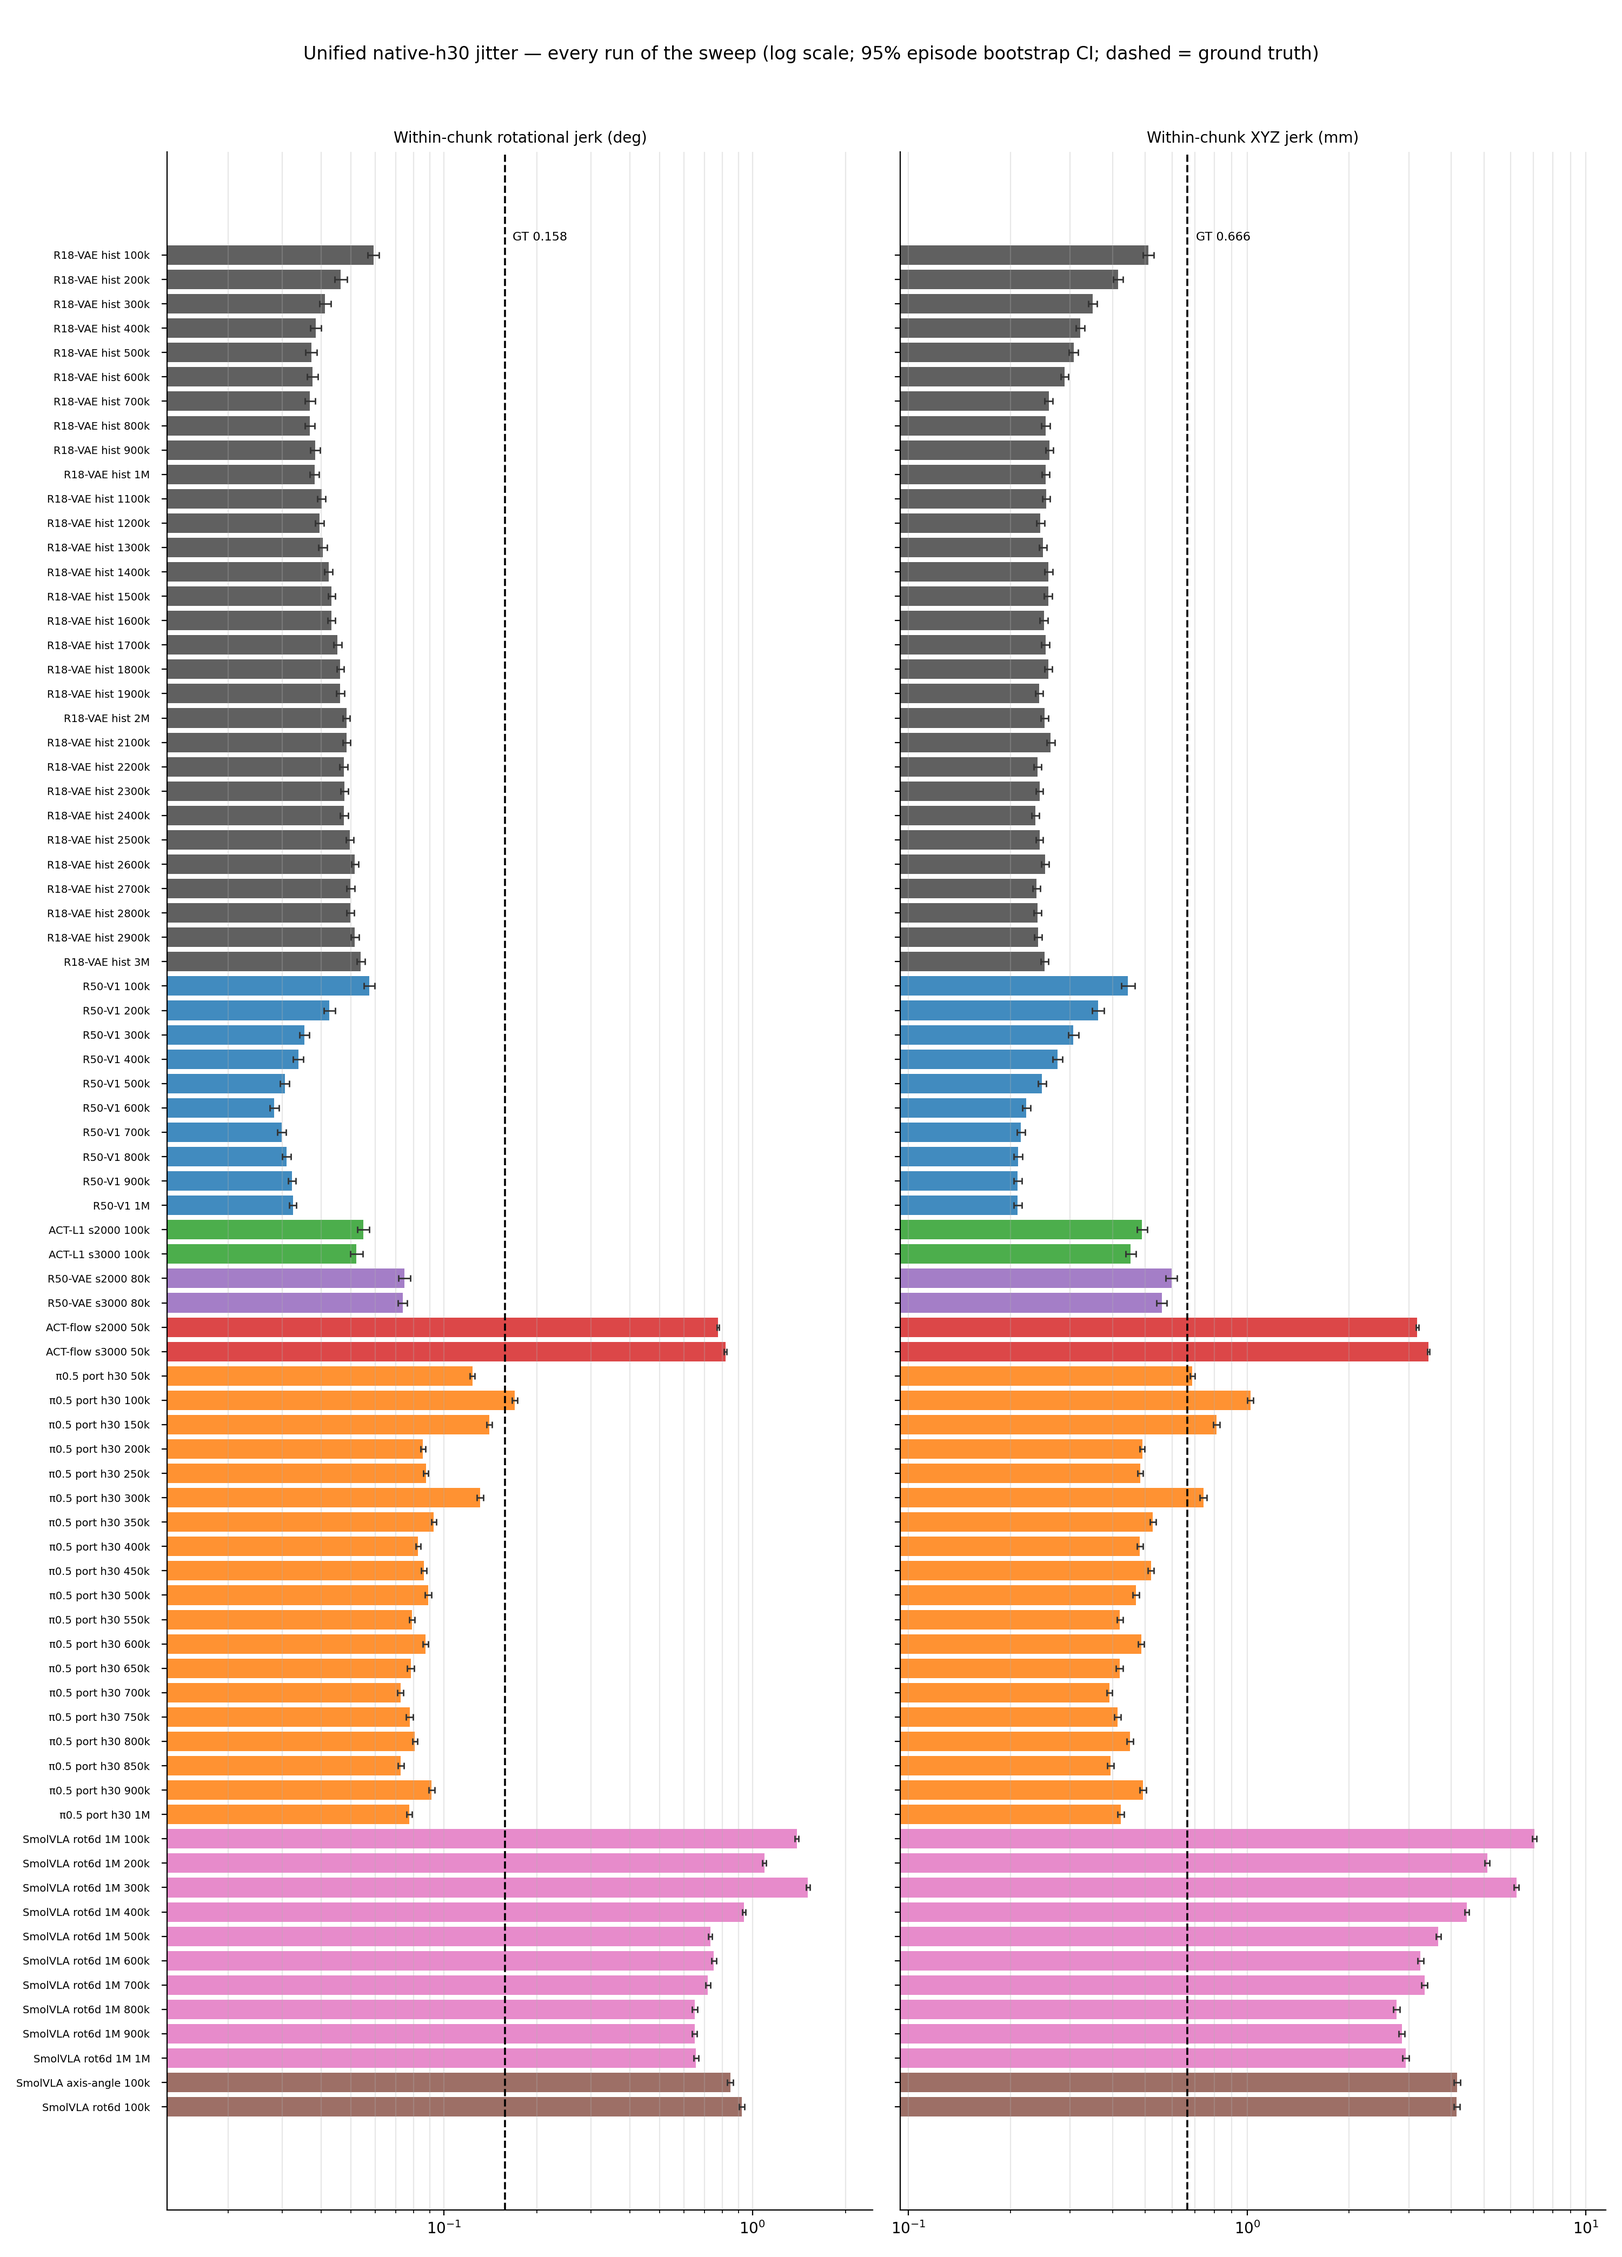
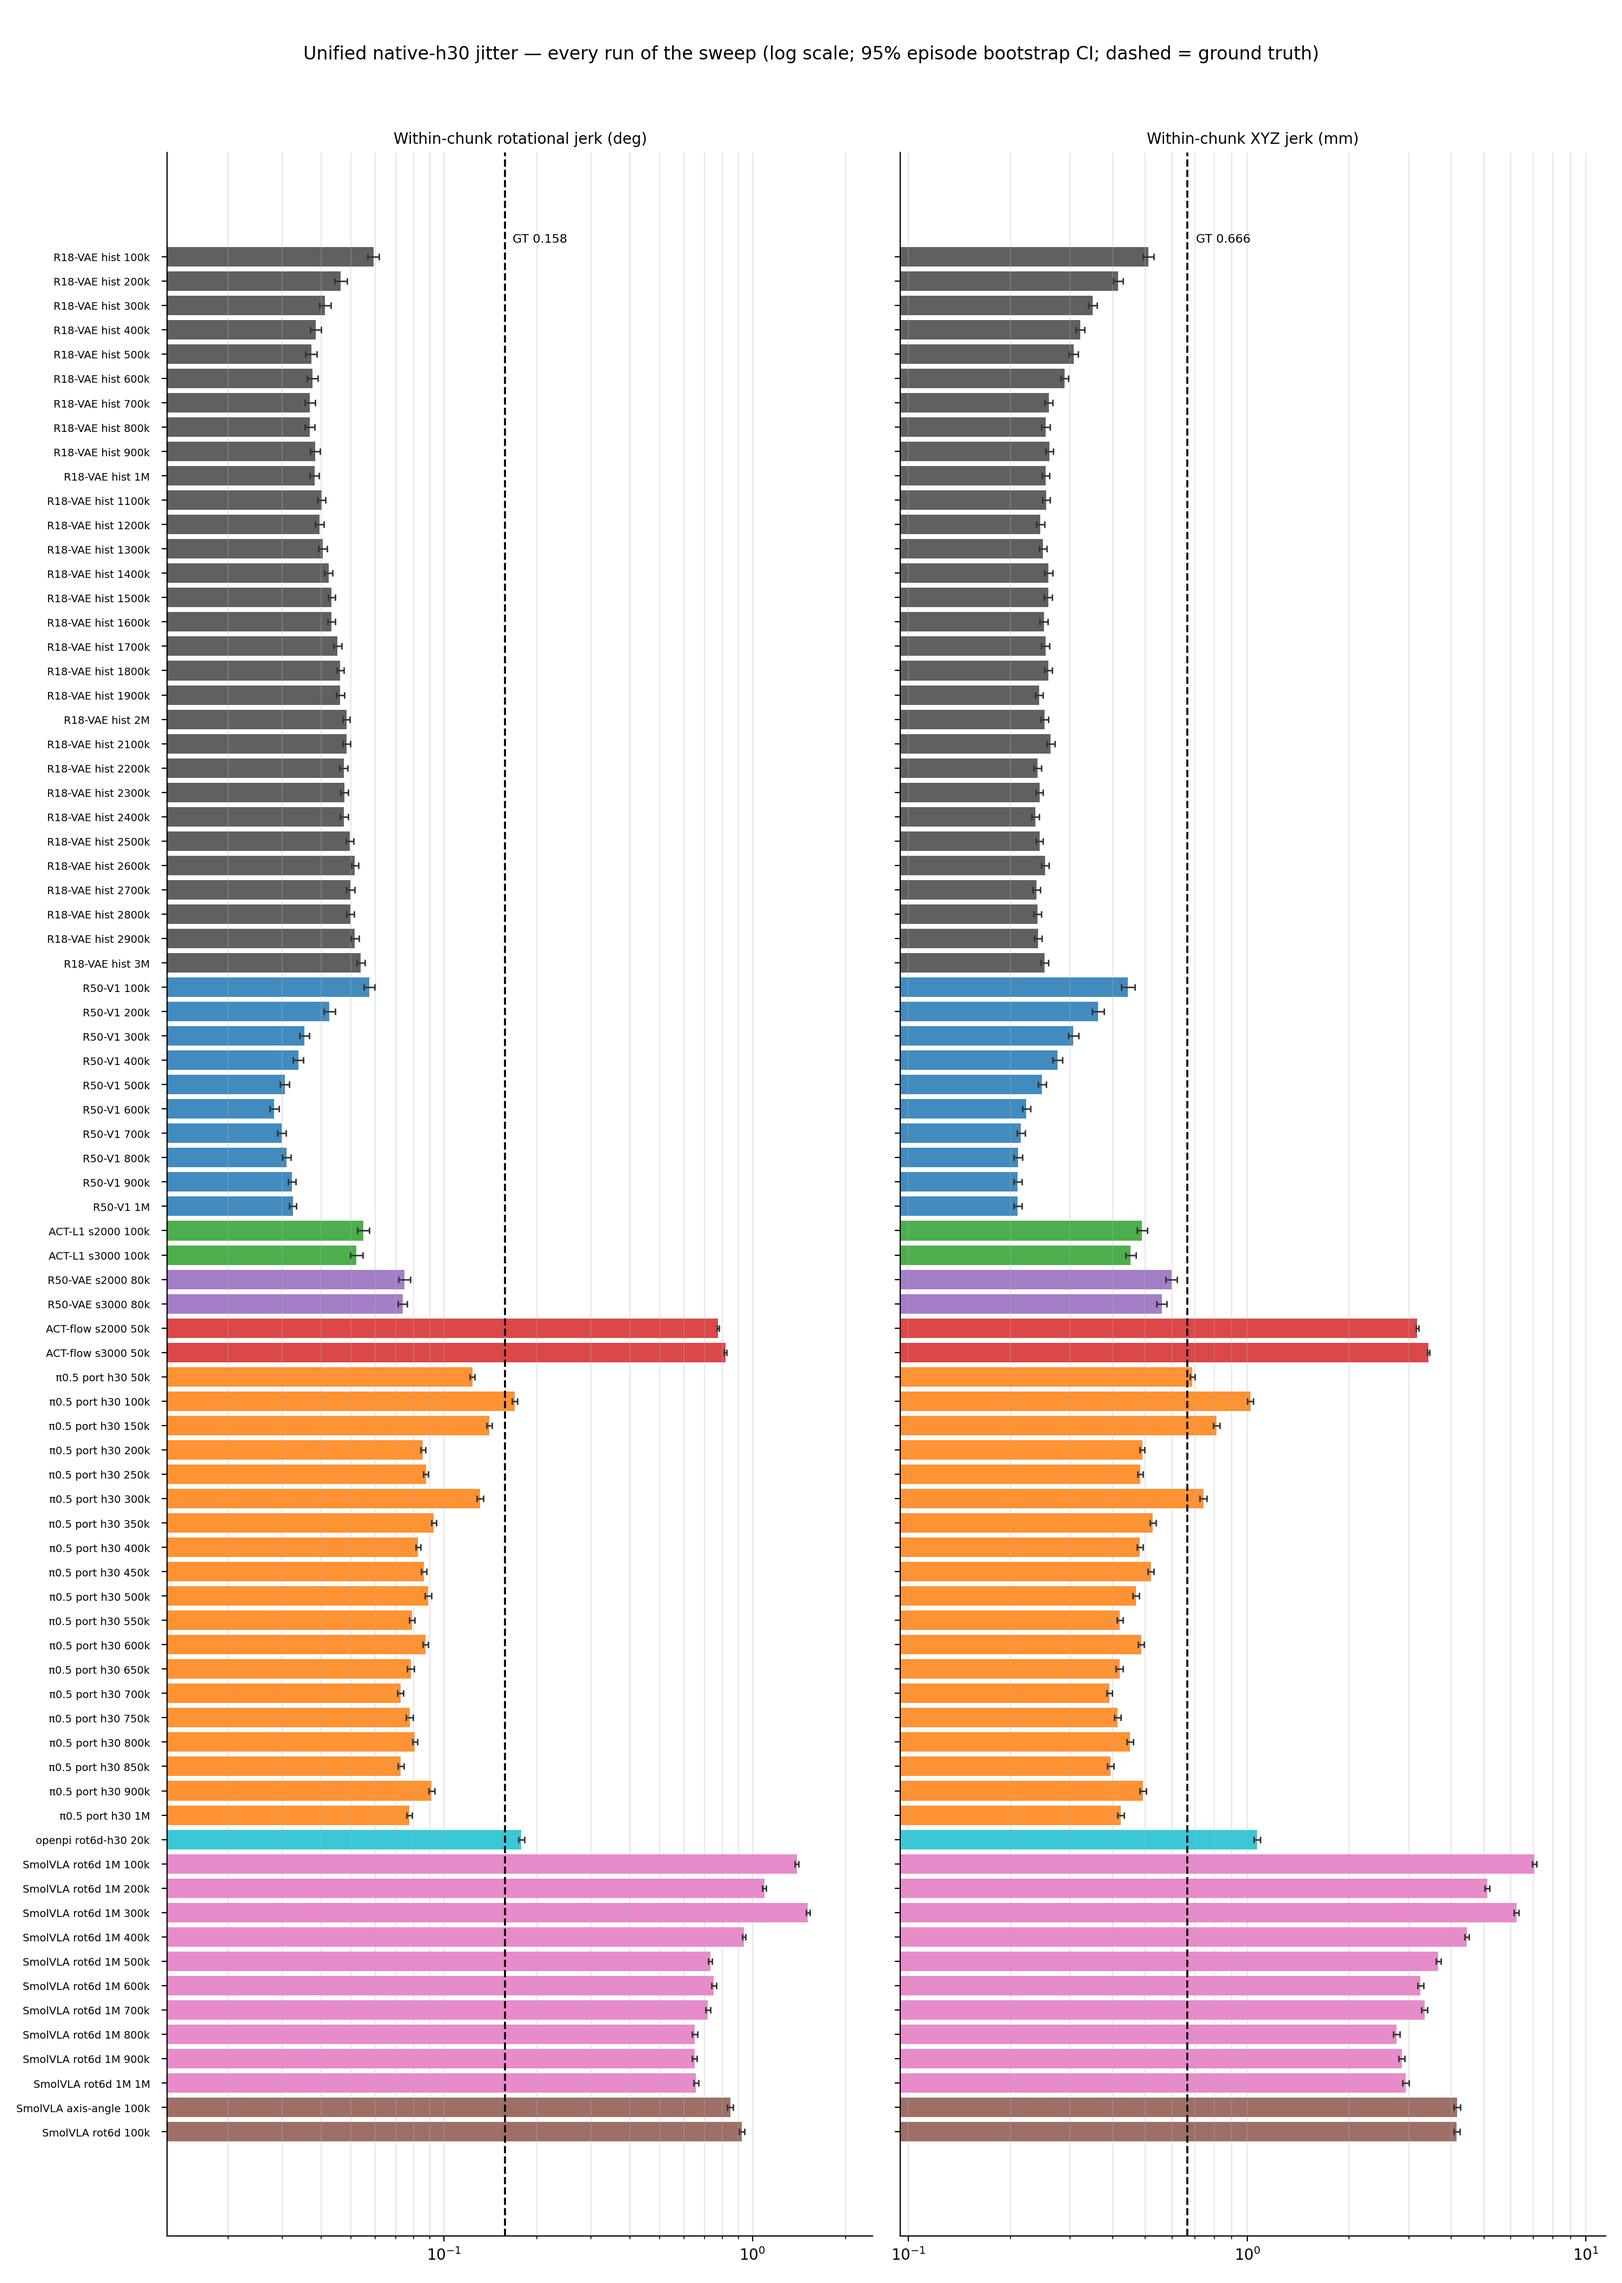
§9.2.11: optional openpi h30-trained arm landed (native-h30 canonical row)
Host GPU freed → re-ran the parked JAX row: 23.20 [21.56,24.91] mm /
acc@0.1 0.725 / jerk 0.178° at 20k steps — mid-pack at 2% of the port's
budget (read-out 8); consistent with old-window §9.2.5 Arm-A. Table 78
rows, openpi point added to metrics bar + jitter figure families.

Changed region(s): [[0.0, 0.1245, 0.496, 0.9339], [0.558, 0.1245, 0.93, 0.9339]]

diff --git a/examples/umi_relative_ee/act_flow_ablation/plot_unified_h30.py b/examples/umi_relative_ee/act_flow_ablation/plot_unified_h30.py
@@ -49,6 +49,7 @@ COLORS = {
     "smol": "#8c564b",
     "smol1m": "#e377c2",
     "smolmask": "#7f7f7f",
+    "openpi": "#17becf",
 }
 
 # Bar-chart representatives: (run, label, family). One row per surviving
@@ -69,6 +70,7 @@ REPRESENTATIVES = [
     ("smolvla_axis_angle_seed1000_100000steps", "SmolVLA axis-angle 100k", "smol"),
     ("smolvla_rot6d_1m_seed1000_1000000steps", "SmolVLA rot6d 1M", "smol1m"),
     ("smolvla_masked_1m_seed1000_1000000steps", "SmolVLA masked 1M", "smolmask"),
+    ("pi05_lora_sroi_rot6d_h30_seed1000_0020000steps", "openpi rot6d-h30 20k (native)", "openpi"),
 ]
 
 PANELS = [
@@ -90,6 +92,7 @@ FAMILY_PREFIXES = [
     ("act_r50_vae_", "r50vae", "R50-VAE"),
     ("act_r18_flow_u_lr1e5_", "flow", "ACT-flow"),
     ("pi05_port_", "port", "π0.5 port h30"),
+    ("pi05_lora_sroi_rot6d_h30_", "openpi", "openpi rot6d-h30"),
     ("smolvla_rot6d_1m_", "smol1m", "SmolVLA rot6d 1M"),
     ("smolvla_masked_1m_", "smolmask", "SmolVLA masked 1M"),
     ("smolvla_rot6d_", "smol", "SmolVLA rot6d"),

diff --git a/examples/umi_relative_ee/act_flow_ablation/RESEARCH_REPORT.md b/examples/umi_relative_ee/act_flow_ablation/RESEARCH_REPORT.md
@@ -1989,18 +1989,22 @@ every model whose action chunk supports 30 steps is scored over the FULL
 chunk under the canonical 500-query window (bounds [-1,31], endpoint = t+30,
 deterministic ACT at seed 1000, stochastic flow models at 3 inference seeds
 averaged within episode, 95% episode bootstrap). Openpi's h10-trained arms
-(chunk 10) are out of scope by construction; the h30-trained openpi arm is
-a pending optional row (its canonical-window native-h30 score requires a
-JAX re-run). The tree is the shared `reeval_v2metrics/eval_common_h32/`
+(chunk 10) are out of scope by construction; the h30-trained openpi arm
+(rot6d, 20k steps) is included as an optional row — its canonical-window
+native-h30 score was re-run on the freed host GPU on 2026-08-19 (23.20
+[21.56, 24.91] mm / acc@0.1 0.725 / rot-jerk 0.178°, single inference seed
+like its §9.2.9 siblings, consistent with the old-window §9.2.5 Arm-A
+value 23.83 / 0.702 / 0.181). The tree is the shared `reeval_v2metrics/eval_common_h32/`
 holding the §9.2.7 historical curve, the §9.2.8 R50-V1 curve, the §9.2.6
 companions, and — new — the π0.5-port h30 curve (`pi05_port_<STEP>_h30_v2`
 runs; host front-run 50k–900k minus 650k/700k via
 `eval_pi05_curve_h30_host.sh`, kiwi K2 owns 650K/700K/1M).
 
-**Status: 77 of 87 rows complete (2026-08-19); the full π0.5-port h30
-curve (19 points, 50k–1M), the SmolVLA notation h30 pair, and the SmolVLA
-1M full-width h30 curve (10 points, §9.2.10) are in.** Pending: only the
-kiwi masked-subspace 1M h30 curve. Every
+**Status: 77 of 87 rows complete + the optional openpi h30 row (78 total;
+2026-08-19); the full π0.5-port h30 curve (19 points, 50k–1M), the SmolVLA
+notation h30 pair, the SmolVLA 1M full-width h30 curve (10 points,
+§9.2.10), and the openpi h30-trained arm are in.** Pending: only the kiwi
+masked-subspace 1M h30 curve. Every
 admitted row passed the compiler's assertions — canonical bounds,
 full-chunk scoring, 500 queries/100 episodes, identical acc@τ scales
 (within-tree), and identical GT jerk (0.158° / 0.67 mm — the full-chunk
@@ -2054,6 +2058,7 @@ GT invariants, slightly different from the t+10 values as expected).
 | act_umi_identity_rot6d_1459_2800000steps | 2800000 | 23.49 [21.62, 25.40] | 4.47 [4.10, 4.85] | 7.69 | 162.0 | 1.310 | 4.24 | 0.974 | 0.715 [0.700, 0.731] | 0.050 |
 | act_umi_identity_rot6d_1459_2900000steps | 2900000 | 23.31 [21.48, 25.18] | 4.44 [4.07, 4.84] | 7.61 | 158.6 | 1.304 | 4.21 | 0.975 | 0.718 [0.703, 0.733] | 0.052 |
 | act_umi_identity_rot6d_1459_3000000steps | 3000000 | 23.31 [21.45, 25.20] | 4.50 [4.12, 4.89] | 7.66 | 160.1 | 1.320 | 4.30 | 0.974 | 0.715 [0.700, 0.731] | 0.054 |
+| pi05_lora_sroi_rot6d_h30_seed1000_0020000steps | 20000 | 23.20 [21.56, 24.91] | 4.68 [4.36, 5.03] | 6.99 | 123.7 | 1.328 | 4.13 | 0.977 | 0.725 [0.712, 0.736] | 0.178 |
 | pi05_port_0050000_h30_v2 | 50000 | 24.75 [23.29, 26.27] | 4.70 [4.45, 4.97] | 7.15 | 139.0 | 1.325 | 4.16 | 0.971 | 0.714 [0.705, 0.724] | 0.124 |
 | pi05_port_0100000_h30_v2 | 100000 | 23.05 [21.60, 24.58] | 4.43 [4.16, 4.71] | 6.76 | 123.8 | 1.254 | 3.70 | 0.977 | 0.730 [0.720, 0.740] | 0.170 |
 | pi05_port_0150000_h30_v2 | 150000 | 23.31 [21.77, 24.96] | 4.43 [4.13, 4.74] | 6.80 | 126.2 | 1.233 | 3.63 | 0.974 | 0.733 [0.722, 0.744] | 0.140 |
@@ -2157,6 +2162,16 @@ Read-outs (extended as the pending rows land):
    trails ACT-L1's 100k budget (23.31 mm). Read with §9.2.10 read-out 3:
    near-horizon parity at full budget, far-horizon deficit that survives
    10× budget — the only family for which this is true.
+8. **The openpi h30-trained arm lands mid-pack at 2% of the port's
+   budget.** 23.20 [21.56, 24.91] mm / acc@0.1 0.725 at just 20k steps —
+   already at the ACT-L1@100k level (23.7) and ~1.7 mm from the mature
+   port/R50-V1 plateau, with GT-level smoothness (rot-jerk 0.178° vs GT
+   0.158°). The §9.2.5 sample-efficiency conclusion (the openpi recipe
+   learns ~9× faster than the ACT path) carries to the canonical-window
+   full-chunk protocol: the JAX arm is the most budget-efficient chunk-30
+   controller in the inventory, with the caveat of its 20k training budget
+   (§9.2.5 showed h30 training costs ~15% near-horizon precision vs h10
+   training — visible here as its absence from the t+10 leaders).
 
 ### 9.3 Answers and promotion decision after stage one
 
@@ -3011,8 +3026,9 @@ MPLCONFIGDIR=/tmp/lerobot-matplotlib uv run --with matplotlib python \
 
 outputs `results/unified_h30_run_summary.csv` and
 `figures/unified_h30_{metrics,budget,jitter,jitter_budget}.png`; the port
-curve, K2/K3 rows, and the SmolVLA full-width curve landed 2026-08-19 (77
-runs) — rerun both only after the masked curve lands.
+curve, K2/K3 rows, the SmolVLA full-width curve, and the optional openpi
+h30 row landed 2026-08-19 (78 runs) — rerun both only after the masked
+curve lands.
 
 The v2 pass records the authoritative evaluated checkpoint step from each
 report filename (early-stopped companions sit in `100000steps` directories
